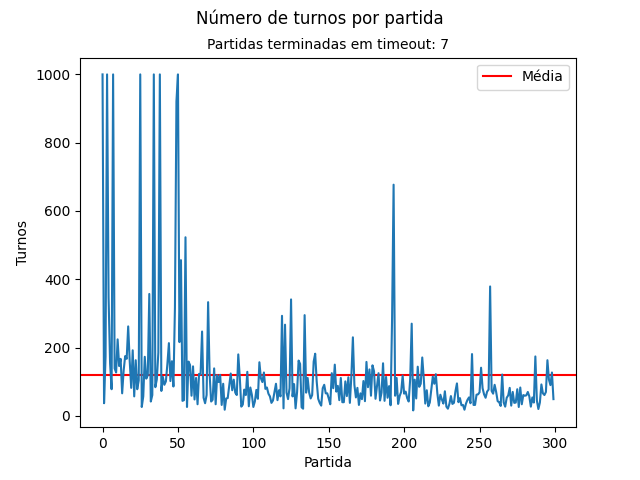
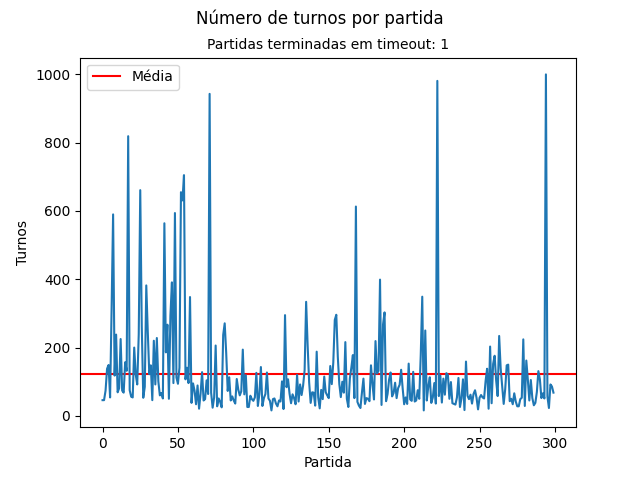
fix: texto de saída

Changed region(s): [[0.125, 0.125, 0.875, 0.875], [0.75, 0.1562, 0.7812, 0.1875]]

diff --git a/README.md b/README.md
@@ -49,13 +49,14 @@ python3.10 main.py --salvar-graficos --imprimir-estatisticas
 
 Obtem-se:
 ```console
-Média de turnos por partida: 136.42
-Partidas terminadas em timeout: 4
+Média de turnos por partida: 122.04
+Partidas terminadas em timeout: 1
+Jogador com mais vitórias: Cauteloso
 Porcentagem de vitórias por jogador:
- - Aleatorio: 19.00%
- - Cauteloso: 50.67%
- - Exigente: 9.33%
- - Impulsivo: 21.00%
+ - Aleatorio: 20.00%
+ - Cauteloso: 57.00%
+ - Exigente: 6.67%
+ - Impulsivo: 16.33%
 ```
 
 Além disso, é gerada uma visuazação dos resultados obtidos a partir das simulações. As imagens ficam salvas no diretório ```/imagens``` e podem ser visualizadas a seguir.
